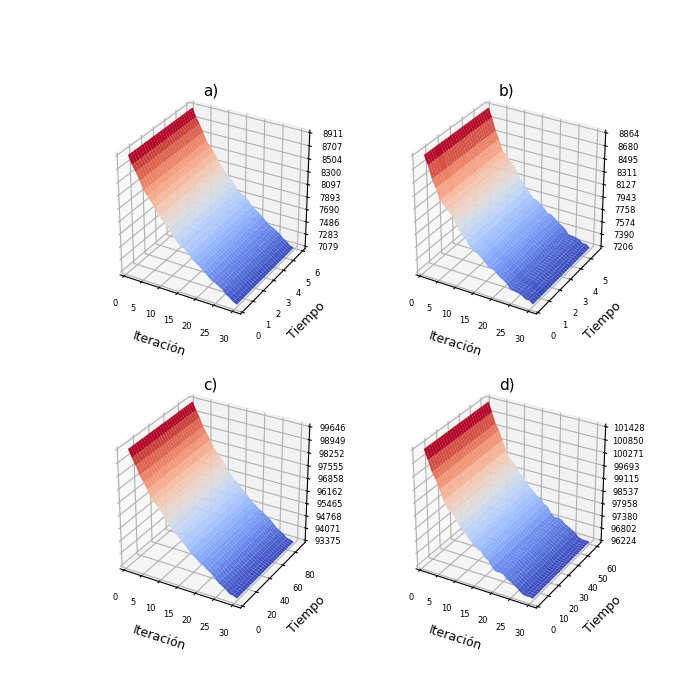
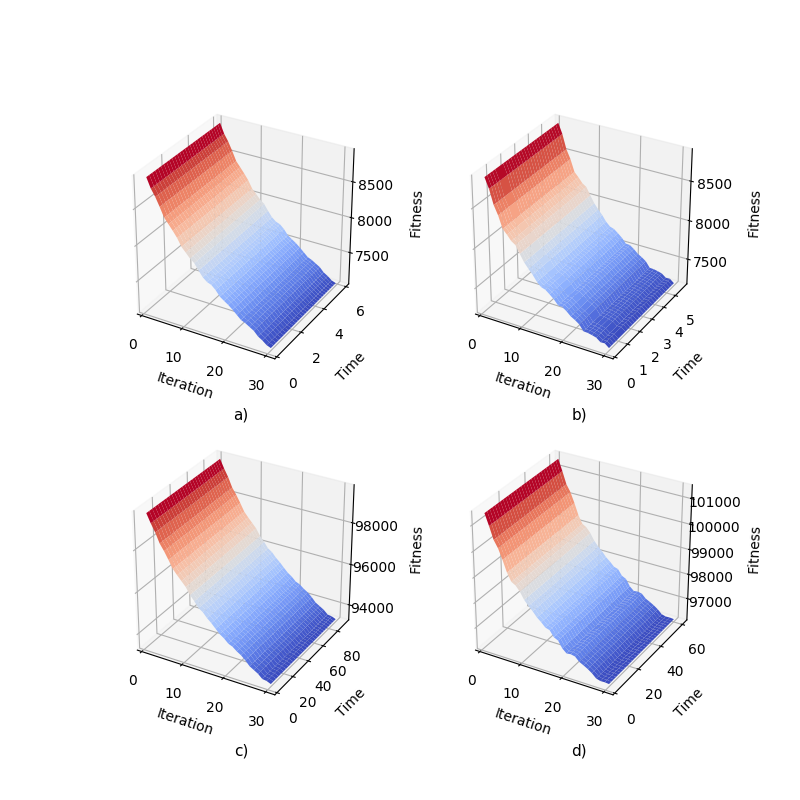
final

diff --git a/final/graficacolorTotal.py b/final/graficacolorTotal.py
@@ -21,7 +21,7 @@ y = np.array([0.248452218,0.4716893,0.686718313,0.897217822,1.105355,1.312520337
 x, y = np.meshgrid(x, y)
 
 #Size figure 16 width x 8 height
-fig = plt.figure(figsize=(7,7))
+fig = plt.figure(figsize=(8,8))
 
 ax = fig.add_subplot(2, 2, 1, projection='3d')
 
@@ -30,11 +30,13 @@ surf = ax.plot_surface(x, y, z, cmap=cm.coolwarm,
                        linewidth=0, antialiased=True, label="SWHD")
                        
 #fig.colorbar(surf, shrink=0.5, aspect=5)
-ax.zaxis.set_major_locator(LinearLocator(10))
+#ax.zaxis.set_major_locator(LinearLocator(10))
 ax.zaxis.set_major_formatter(FormatStrFormatter('%d'))
-ax.set_title(u'a)', fontsize=11)
-plt.xlabel(u"Iteración", fontsize=9)
-plt.ylabel(u"Tiempo", fontsize=9)
+ax.tick_params(labelsize=10)
+ax.set_title(u'a)', fontsize=11, y=-0.2)
+ax.set_xlabel(u"Iteration", fontsize=10)
+ax.set_ylabel(u"\nTime", fontsize=10)
+ax.set_zlabel(u"\n\nFitness", fontsize=10)
 
 
 #otra evolutivo
@@ -58,14 +60,14 @@ surf2= ax.plot_surface(x, y, z, cmap=cm.coolwarm,
 
 # Customize the z axis.
 #ax.set_zlim(-1.01, 1.01)
-ax.zaxis.set_major_locator(LinearLocator(10))
+#ax.zaxis.set_major_locator(LinearLocator(10))
 ax.zaxis.set_major_formatter(FormatStrFormatter('%d'))
 
-plt.xlabel(u"Iteración", fontsize=9)
-plt.ylabel(u"Tiempo", fontsize=9)
-#plt.zlabel(u"Fitness")
-ax.set_title(u'b)', fontsize=11)
-
+ax.set_xlabel(u"Iteration", fontsize=10)
+ax.set_ylabel(u"\nTime", fontsize=10)
+ax.set_zlabel(u"\n\nFitness", fontsize=10)
+ax.set_title(u'b)', fontsize=11, y=-0.2)
+ax.tick_params(labelsize=10)
 # Add a color bar which maps values to colors.
 #fig.colorbar(surf2, shrink=0.5, aspect=5)
 
@@ -92,13 +94,14 @@ ax = fig.add_subplot(2, 2, 3, projection='3d')
 surf = ax.plot_surface(x, y, z, cmap=cm.coolwarm,
                        linewidth=0, antialiased=True, label="SWHD")
 
-plt.xlabel(u"Iteración", fontsize=9)
-plt.ylabel(u"Tiempo", fontsize=9)                       
+ax.set_xlabel(u"Iteration", fontsize=10)
+ax.set_ylabel(u"\nTime", fontsize=10)
+ax.set_zlabel(u"\n\nFitness", fontsize=10)                    
 #fig.colorbar(surf, shrink=1,orientation='horizontal', aspect=20)
-ax.zaxis.set_major_locator(LinearLocator(10))
+#ax.zaxis.set_major_locator(LinearLocator(10))
 ax.zaxis.set_major_formatter(FormatStrFormatter('%d'))
-ax.set_title(u'c)', fontsize=11)
-
+ax.set_title(u'c)', fontsize=11, y=-0.2)
+ax.tick_params(labelsize=10)
 
 #otra evolutivo
 
@@ -119,14 +122,14 @@ surf2= ax.plot_surface(x, y, z, cmap=cm.coolwarm,
 
 # Customize the z axis.
 #ax.set_zlim(-1.01, 1.01)
-ax.zaxis.set_major_locator(LinearLocator(10))
+#ax.zaxis.set_major_locator(LinearLocator(10))
 ax.zaxis.set_major_formatter(FormatStrFormatter('%d'))
 
-plt.xlabel(u"Iteración", fontsize=9)
-plt.ylabel(u"Tiempo", fontsize=9)
-#plt.zlabel(u"Fitness")
-ax.set_title(u'd)', fontsize=11)
-
+ax.set_xlabel(u"Iteration", fontsize=10)
+ax.set_ylabel(u"\nTime", fontsize=10)
+ax.set_zlabel(u"\n\nFitness", fontsize=10)
+ax.set_title(u'd)', fontsize=11, y=-0.2)
+ax.tick_params(labelsize=10)
 
 
 
